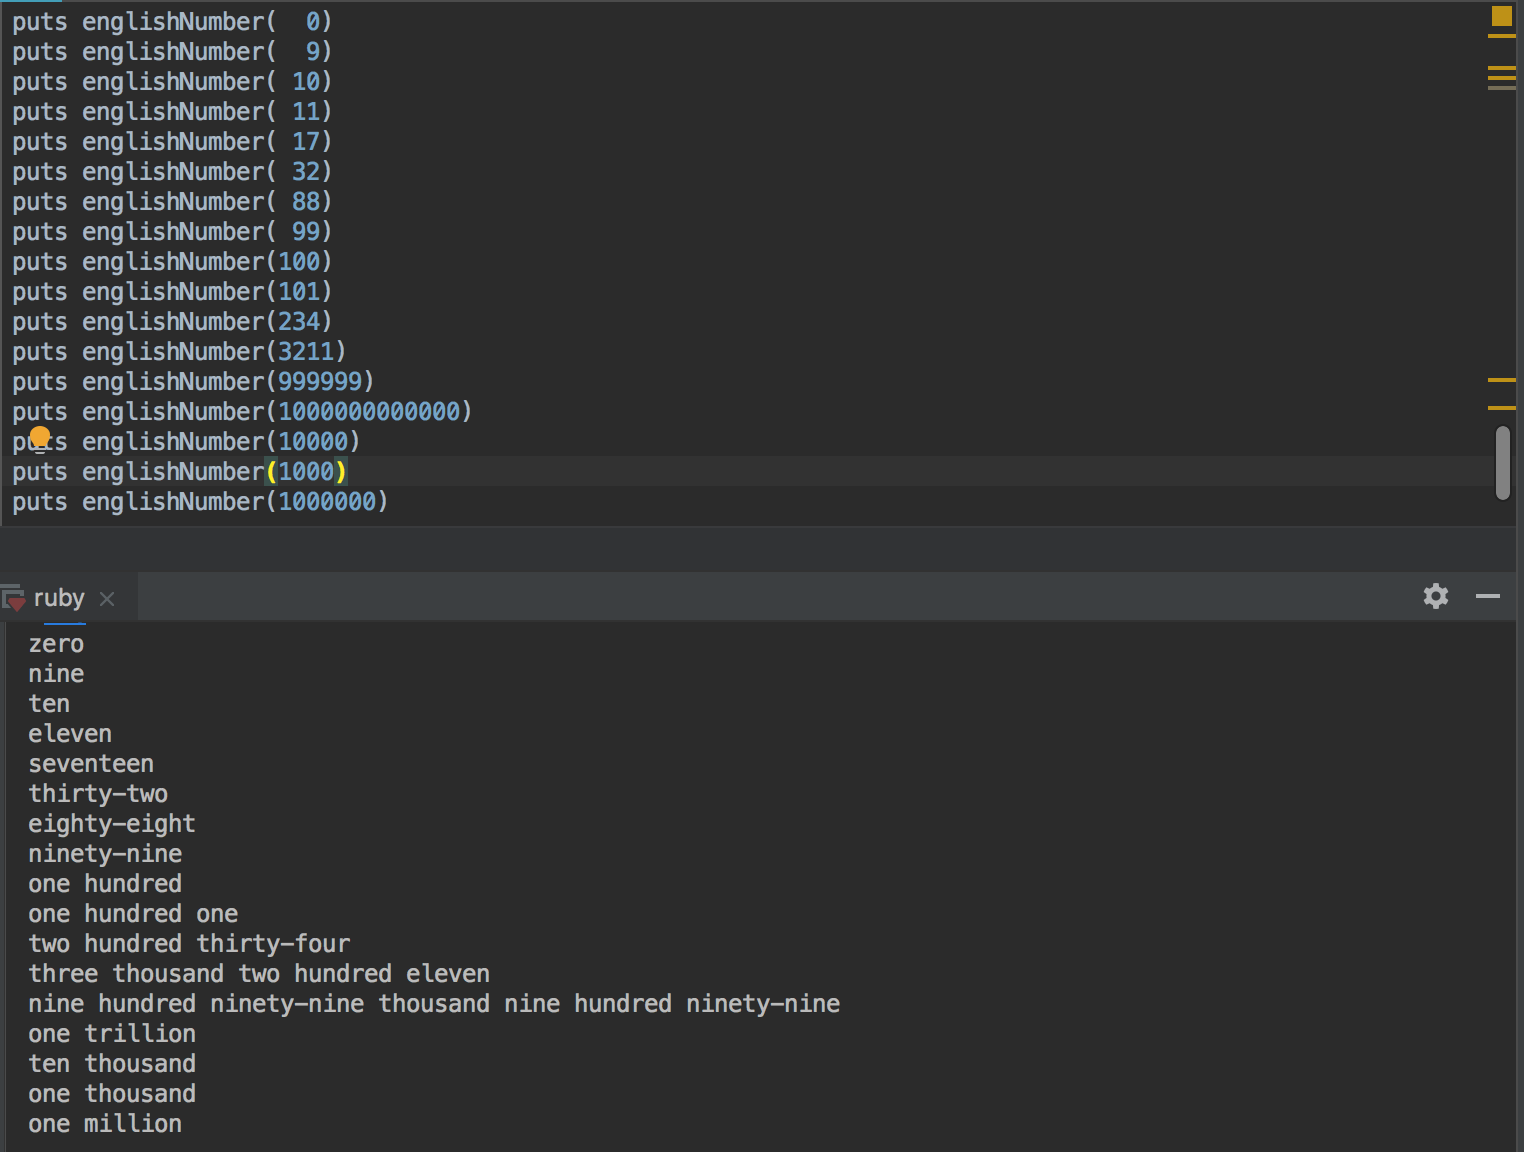
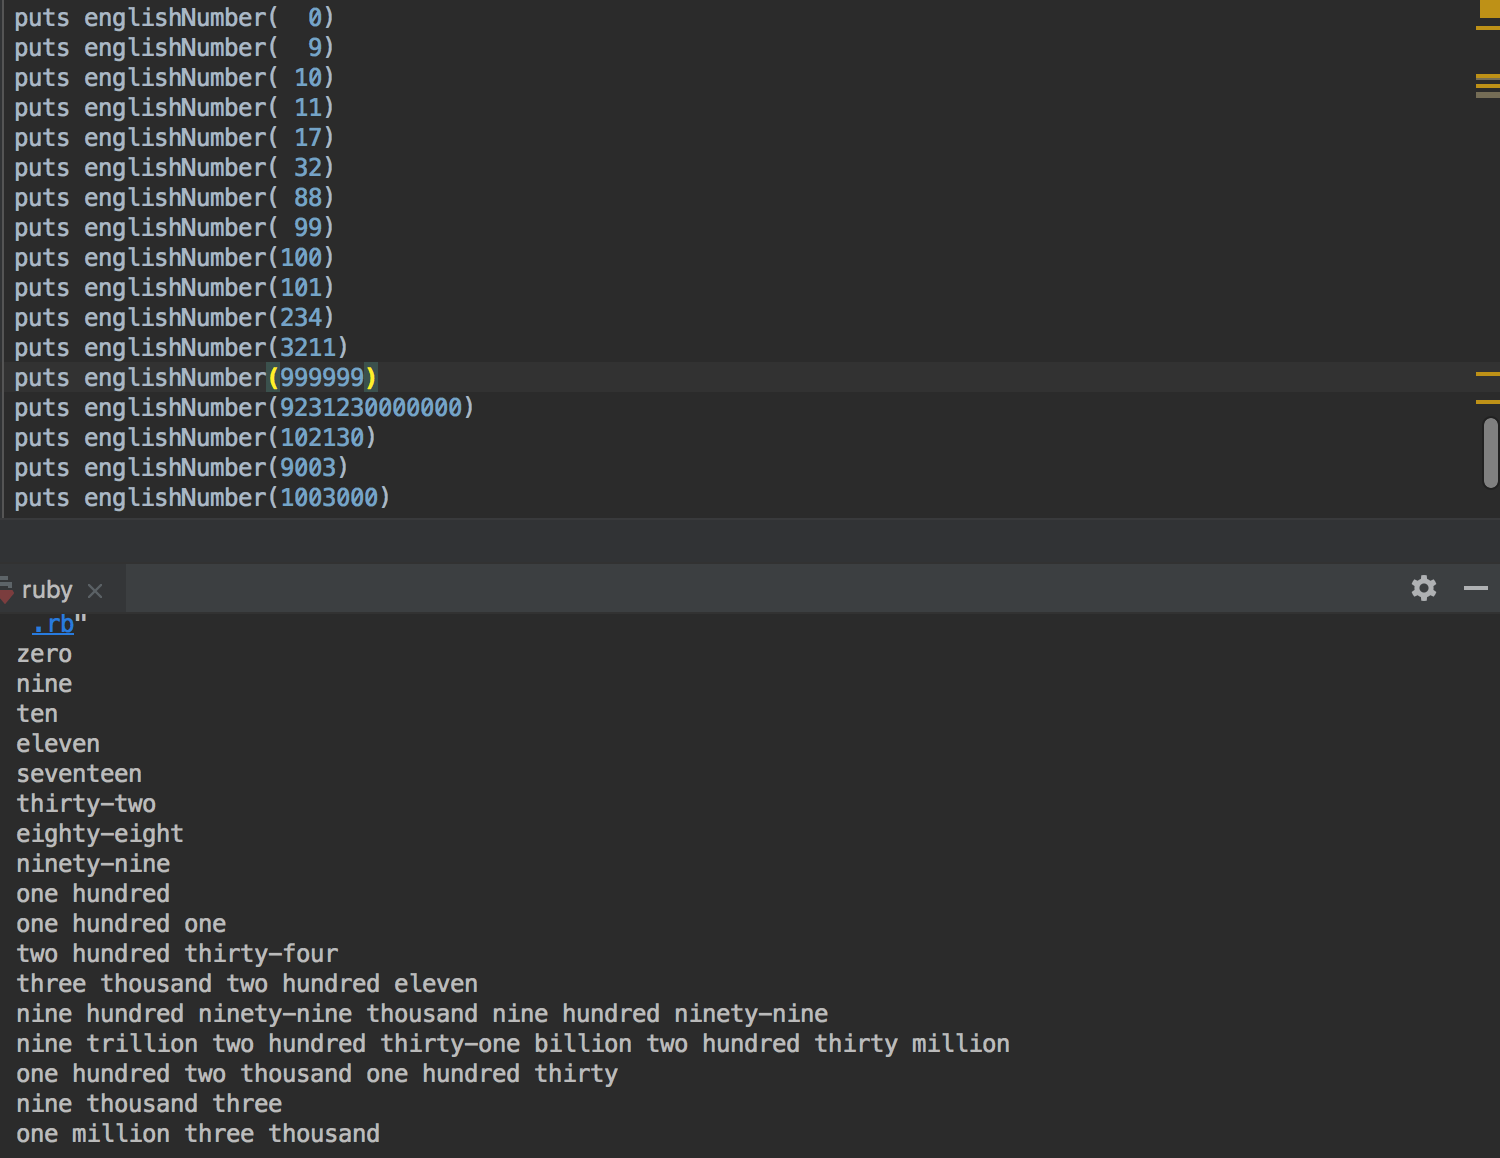
updated screenshot

diff --git a/englishNumber.rb b/englishNumber.rb
@@ -6,7 +6,7 @@ def englishNumber(num)
   if num < 0
     return 'Please input number greater than or equal to 0'
   end
-  
+
   string = ''
 
   onesPlace = ['one',     'two',       'three',    'four',     'five',
@@ -97,7 +97,7 @@ puts englishNumber(101)
 puts englishNumber(234)
 puts englishNumber(3211)
 puts englishNumber(999999)
-puts englishNumber(1000000000000)
-puts englishNumber(10000)
+puts englishNumber(102023490000)
+puts englishNumber(1012300)
 puts englishNumber(1000)
 puts englishNumber(1000000)
